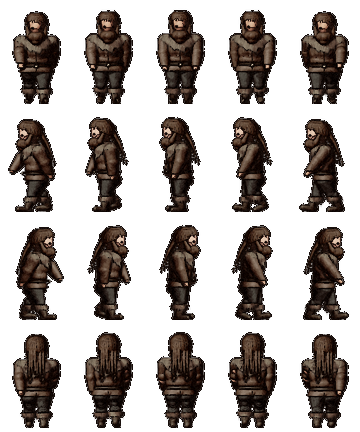
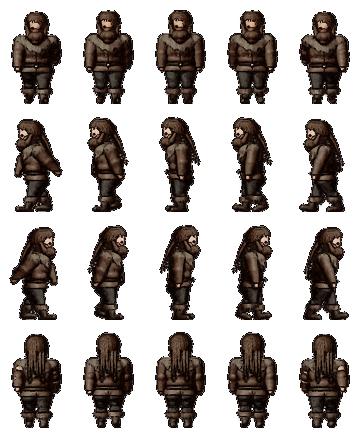
탐험가 맵 그림 선 자세 팔을 몸 옆으로 곧게(AM42) · 갑옷 겹 되돌림 기록
Claude-Session: https://claude.ai/code/session_012LdG8JyUMFwKDnqU5jz75N

diff --git a/docs/ASSUMPTIONS.md b/docs/ASSUMPTIONS.md
@@ -578,7 +578,7 @@
 | AM38 | **탐험가 시체 = 탐험가 맵 몸 그림을 눕힌 것**(사용자 2026-10-22 "탐험가 시체가 너무 인형처럼 생겼고 작음"): 도형(천 덩어리·막대)으로 그리던 시체를 `assets/actors/human.webp`의 옆모습 걸음 칸(다리를 벌린 자세)을 눕혀(−1.42rad) 핏기 없이 어둡게 칠하고, 번진 피 웅덩이 3겹·떨어진 칼·굴러 나온 등짐을 곁들였다(`Props._lying_body`). 크기 = 서 있는 탐험가 키(약 52px)와 같게 — 소품 시트 칸을 1.5 → 2.0칸 해상도로 올리고(`floor_art/Specs.gd PROPS size`, 다른 소품은 같은 크기로 더 선명하게) `feat_corpse` art.prop.size 1.5 → 1.9. 고정 지도의 탐험가 시체·갓 죽은 탐험가·쓰러진 약탈자 모두 이 타일 | 걷는 탐험가와 같은 그림이라 "사람"으로 읽힌다 | `tools/floor_art/Props.gd` corpse · `paint_floor.gd --only=props`(시트를 먼저 그린 뒤) |
 | AM40 | (사용자 2026-10-23 "아이템 그림을 우리 그림체로 전면 교체") **아이템 그림 = 몬스터 그림과 같은 칠 순서**(Clay 3D 덩어리 → Render 붓 칠·적갈색 그늘·잉크·빗금 → Finish 때·색 보정)로 아이템마다 한 장(`tools/paint_items.gd` → `assets/items/<id>.webp`, 359장 약 2분). 캔버스 = 가방 칸 × 80px(가방 칸 38px의 약 2배), 세로 무기는 손잡이 아래·끝 위. 공식 장비는 소재 색·종류·등급으로 칠한다 — 쇠는 밝을수록 번들(어두운 아다만티움이 쇠 반사에 묻히지 않게 `spec` = 0.15 + 0.55 × 밝기), 3단계 이상 날밑·테는 장식 금속(황동빛), 4단계 이상 자루 끝 보석, 5~6단계 은은한 빛, 1단계 날은 이 빠진 자국. 게임은 그림이 있으면 그것을, 없으면 옛 도형(`ItemIconPainter`) | 아이템만 평면 도형이라 다른 그림과 따로 놀았다. 모양은 이름·종류에서(원작 묘사 없음) | 설계 `tools/item_art/`(ItemArt·Frame·Blades·Hafts·Wear·Wear2·Goods), 그린 뒤 `--import` |
 | AM41 | (사용자 2026-10-23 "손잡이·날 모양이 다 비슷해 이름을 보기 전엔 구분이 안 된다 — 소재별로 자연스러운 특징을") **소재마다 생김새**(`tools/item_art/Style.gd`): 금속 = 날 폭·날끝·날·날밑·자루 끝·손잡이·표면 — 강철 투박한 이 빠진 날·가죽 감개, 라이티늄(가볍다) 가늘고 구멍 뚫린 날·흰 천 감개·얇은 날밑, 아이릴제(미스릴+강철 합금) 물결 단조 무늬·뒤로 젖힌 날개 날밑·고리 자루 끝·쇠줄 감개, 아이디움 넓고 검게 두드린 날(망치 자국), 월광석 초승달 날밑·자루 끝·초승달 무늬·창백한 빛, 오리하르콘(마력이 통함) 잎 모양 날·금빛 새긴 글자가 주황으로 빛남·소용돌이 날밑·보석, 미스릴 잎 날·푸른 빛 핏줄 무늬, 아다만티움(무겁다) 아주 넓고 비스듬히 잘린 날·덩어리 날밑·쇠띠, 미스티움(왕가) 금실 무늬·금테·보석, 아크(용살·마법 카운터) 용 비늘·톱니 날·발톱 날밑·푸른 빛. 도끼·미늘창 머리(보통·턱 긴·반달·양날), 철퇴 머리(날개·가시·각진·금장식)도 소재에서. 가죽·천·목재·뼈·보석은 표면·둘레 장식 — 와이번·드레이크 비늘, 트롤 혹·덧댐, 오우거 덧댐·징, 고룡 비늘·가시, 거미 비단 거미줄, 서리 양모 털, 월광 비단 초승달, 정령 비단 빛 핏줄, 세계수 잎·빛 잎맥, 보르탈 빛나는 옹이, 아르테네목 감은 밧줄, 짐승 뼈 갈라짐·끈, 보석 모양(수정 육각 기둥·호박 속 벌레·비취 매끈한 알·흑요석 조각·블루스톤 물방울), 금속 반지 = 인장 반지 | 원작 설정(가볍다·무겁다·용살·마력)에서 고르고, 원작에 없는 것은 이름에서 | `Style.BY_MATERIAL`(소재 한 줄), 부품 `Hilt.gd`(손잡이·날밑·자루 끝)·`Surface.gd`(무늬·장식) |
-| AM42 | **탐험가 맵 그림 옷차림 고르기**(사용자 2026-10-26 "거지 복장 같고 촌스럽다 · 머리가 크다 · 인간은 팔을 앞으로만 흔든다 · 걷는 모습은 그대로 · 망토도 괜찮다 — 여러 개 그려 봐"): 걸음(AM31)은 그대로 두고 옷·머리 비율만 바꾸는 후보 9종(`tools/monster_art/MapLooks.gd` — 인간 h0 깔끔한 여행복·h1 방랑 망토·h2 두건 쓴 망토·h3 탐험가 외투·h4 누빔 갑옷·h5 사슬 갑옷, 바바리안 b0 머리만 작게·b1 털 망토·b2 가죽 갑옷), 비교 그림 `docs/screens/map_looks.png`. 머리 인간 2.2 → 1.75·다리 0.75 → 0.82, 바바리안 2.5 → 2.1·0.68 → 0.72. 겉옷은 새 부품 `BackCloak`(망토 = 목 → 어깨를 둥글게 덮고 단으로 퍼지는 3D 사슬 원뿔을 단 높이에서 자름 — 다리가 보여야 걸음이 산다, 앞모습은 가운데 V로 트임 / 쓴 두건 / 무릎 외투 / 누빔 / 사슬). 팔: 앞으로 간 팔 위팔 +8° → +20°·아래팔 그대로 +13° → +19°로(뒤로 간 팔 −38°·−31° 그대로) — 걸음 칸마다 한 손은 앞·한 손은 뒤로 보인다. 처음 기본은 망토(h1·b1)였고, **사용자가 고른 것(2026-10-26 "h4 b2로 교체하되 h3도 저장해 줘 — 나중에 NPC로 · 전투 화면의 아군 뒷모습도 이에 맞게") = 인간 h4 누빔 갑옷 · 바바리안 b2 가죽 갑옷**(`MapLooks.CHOSEN`). **전투 뒷모습·옆모습(`assets/party/<종족>_back/_side`)도 같은 옷**(`Party.spec_of`가 CHOSEN을 덮는다). h3 외투는 `MapLooks.KEEP` → `assets/actors/looks/h3_coat.webp`(게임은 아직 안 쓴다 — NPC 탐험가용). b2 외투는 엉덩이까지(`len` 0.08): 허벅지 중간(0.3)이면 다리 사이 둥근 자락이 전투 그림에서 크게 부풀고, 자락을 빼면 외투가 엉덩이에 달라붙었다 — 외투 `len` < 0.45면 다리 사이 자락을 그리지 않는다 | 사용자 요청 | 고른 옷차림: `MapLooks.CHOSEN`(종족 → id) → `godot --headless --path . --script res://tools/paint_actors.gd -- --only=human,barbarian`(KEEP도 같이) + `paint_monsters.gd -- --only=human_back,human_side,barbarian_back,barbarian_side`. 후보 다시 보기 `paint_actors.gd -- --look=<id,id> --out=<폴더>`. 새 후보 = `MapLooks.LOOKS` 한 항목 |
+| AM42 | **탐험가 맵 그림 옷차림 고르기**(사용자 2026-10-26 "거지 복장 같고 촌스럽다 · 머리가 크다 · 인간은 팔을 앞으로만 흔든다 · 걷는 모습은 그대로 · 망토도 괜찮다 — 여러 개 그려 봐"): 걸음(AM31)은 그대로 두고 옷·머리 비율만 바꾸는 후보 9종(`tools/monster_art/MapLooks.gd` — 인간 h0 깔끔한 여행복·h1 방랑 망토·h2 두건 쓴 망토·h3 탐험가 외투·h4 누빔 갑옷·h5 사슬 갑옷, 바바리안 b0 머리만 작게·b1 털 망토·b2 가죽 갑옷), 비교 그림 `docs/screens/map_looks.png`. 머리 인간 2.2 → 1.75·다리 0.75 → 0.82, 바바리안 2.5 → 2.1·0.68 → 0.72. 겉옷은 새 부품 `BackCloak`(망토 = 목 → 어깨를 둥글게 덮고 단으로 퍼지는 3D 사슬 원뿔을 단 높이에서 자름 — 다리가 보여야 걸음이 산다, 앞모습은 가운데 V로 트임 / 쓴 두건 / 무릎 외투 / 누빔 / 사슬). 팔: 앞으로 간 팔 위팔 +8° → +20°·아래팔 그대로 +13° → +19°로(뒤로 간 팔 −38°·−31° 그대로) — 걸음 칸마다 한 손은 앞·한 손은 뒤로 보인다. 처음 기본은 망토(h1·b1)였고, **사용자가 고른 것(2026-10-26 "h4 b2로 교체하되 h3도 저장해 줘 — 나중에 NPC로 · 전투 화면의 아군 뒷모습도 이에 맞게") = 인간 h4 누빔 갑옷 · 바바리안 b2 가죽 갑옷**(`MapLooks.CHOSEN`). **전투 뒷모습·옆모습(`assets/party/<종족>_back/_side`)도 같은 옷**(`Party.spec_of`가 CHOSEN을 덮는다). h3 외투는 `MapLooks.KEEP` → `assets/actors/looks/h3_coat.webp`(게임은 아직 안 쓴다 — NPC 탐험가용). b2 외투는 엉덩이까지(`len` 0.08): 허벅지 중간(0.3)이면 다리 사이 둥근 자락이 전투 그림에서 크게 부풀고, 자락을 빼면 외투가 엉덩이에 달라붙었다 — 외투 `len` < 0.45면 다리 사이 자락을 그리지 않는다. 선 자세 팔(사용자 2026-10-26 "좀비 같다")은 `down`(몸 옆으로 곧게 — `paint_actors.gd EXPLORER_ARMS`, 탐험가만). 부위별 갑옷 겹 그림은 해 봤다가 되돌렸다(사용자 "없던 걸로") | 사용자 요청 | 고른 옷차림: `MapLooks.CHOSEN`(종족 → id) → `godot --headless --path . --script res://tools/paint_actors.gd -- --only=human,barbarian`(KEEP도 같이) + `paint_monsters.gd -- --only=human_back,human_side,barbarian_back,barbarian_side`. 후보 다시 보기 `paint_actors.gd -- --look=<id,id> --out=<폴더>`. 새 후보 = `MapLooks.LOOKS` 한 항목 |
 | AM13 | 입자는 CPUParticles2D(웹 호환), 플레이어를 따라가며 시야 반경 안에서만 생기고 월드에 남는다(걸어도 끌려가지 않음). 그림은 둥근 점(그러데이션 16px) — 손그림 입자는 A2 이후 | 지시서 §3.3·§7 | `AmbientParticles` |
 
 ## 1층 채우기 — 다른 탐험가·약탈자·밀도 (2026-10-21, 사용자 "abcdf 하고 싶은데 1층에도 약탈자가 있음" — `docs/plans/floor1_fill.md` A·B·C·D·F)

diff --git a/docs/archive/PROGRESS_LOG.md b/docs/archive/PROGRESS_LOG.md
@@ -6,6 +6,10 @@
 
 ## 작업 기록 (2026-10-20 이후 — 위가 최신)
 
+- **탐험가 선 자세 팔 곧게 · 갑옷 겹 되돌림 (2026-10-26, 사용자 "가만히 있을 때 팔을 완전히 아래로 내리면 안 됨? 좀비마냥 살짝 앞에 있잖어" → "그냥 갑옷 전부 제거해 없던 걸로")** — AM42.
+  - 팔: 맵 탐험가의 기본 팔 자세가 `slump`(팔꿈치를 굽혀 손이 허벅지 앞)였다 → 새 자세 `down`(`Back.skeleton` — 위팔·아래팔 거의 수직, 몸 옆), `paint_actors.gd EXPLORER_ARMS` = 2(탐험가만 — 몬스터 사람형은 `ARMS` 그대로 slump). 걷기 흔들림 값(ARM_F·ARM_B …)은 그대로라 앞 팔은 덜 앞으로, 뒤 팔은 더 뒤로 간다. 인간·바바리안·h3 시트 다시 그림.
+  - 갑옷 겹 그림(장비에 따라 부위별 겹을 얹던 것 — 커밋 39fc97d·51fa0cc)은 사용자 요청으로 전부 revert(코드·데이터·그림·테스트·문서). 다시 하려면 그 커밋을 참고.
+
 - **탐험가 옷차림 h4 · b2로 교체, 전투 뒷모습도 (2026-10-26, 사용자 "h4 b2로 교체하되 h3도 저장해 줘 나중에 NPC로 쓰게. 전투 화면의 아군 뒷모습도 이에 맞게 그려 주고")** — AM42.
   - `MapLooks.CHOSEN` = {human: h4_gambeson, barbarian: b2_leather} — `paint_actors`(맵 걷기 시트)와 `Party.spec_of`(전투 뒷모습·옆모습, `paint_monsters --only=human_back,…`)가 같이 읽는다. 옛 `paint_actors.gd LOOK`는 없앴다.
   - `MapLooks.KEEP` = [h3_coat] → `assets/actors/looks/h3_coat.webp`(paint_actors가 종족 그림과 같이 그린다, 게임은 아직 안 씀).

diff --git a/docs/PROGRESS.md b/docs/PROGRESS.md
@@ -45,6 +45,7 @@
 
 ## 3. 최근 작업 (위가 최신 — 자세한 것은 PROGRESS_LOG에서 제목으로 검색)
 
+- 2026-10-26 **탐험가 맵 그림 선 자세 팔을 곧게 내림**(AM42, 사용자 "좀비 같다"): 팔 자세 `down`(탐험가만). 갑옷 겹 그림은 해 봤다가 사용자 요청으로 모두 되돌림(커밋 revert).
 - 2026-10-26 **탐험가 옷차림 = 인간 누빔 갑옷(h4) · 바바리안 가죽 갑옷(b2)**(AM42, 사용자): 맵 걷기 그림과 전투 뒷모습·옆모습 모두, h3 외투는 NPC용으로 `assets/actors/looks/h3_coat.webp`(`MapLooks.CHOSEN`·`KEEP`).
 - 2026-10-26 **탐험가 맵 그림 옷차림 9종 · 기본 = 망토**(AM42): 걸음 그대로, 머리 작게·팔 앞뒤로, 인간 h1 방랑 망토·바바리안 b1 털 망토(후보 `docs/screens/map_looks.png`, 바꾸기 `paint_actors.gd LOOK`).
 - 2026-10-26 **쓰러진 적은 남기지 않음 · 보스는 늘 가운데**(UI29·PA7): 수호자·군주급도 쓰러지면 빛 먼지로 사라진다, 첫 보스는 앞줄 한가운데·나머지는 양옆/뒷줄 틈.
